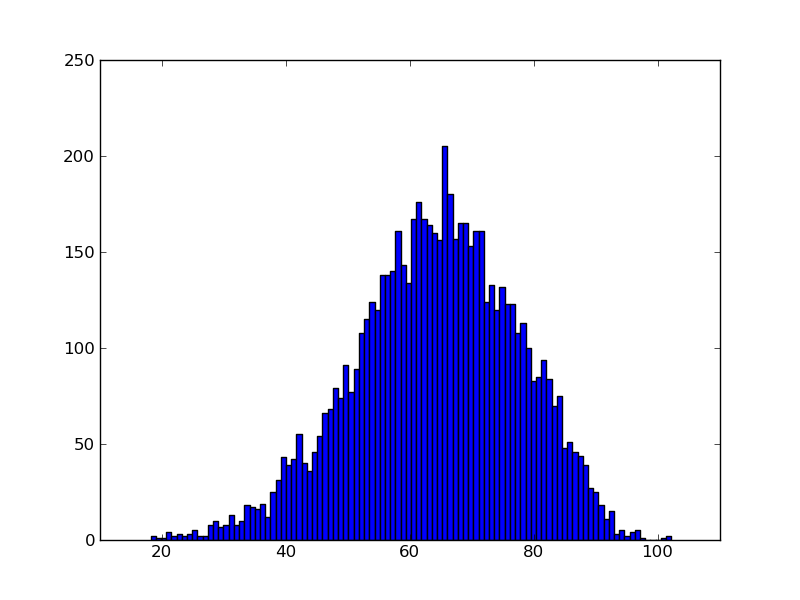
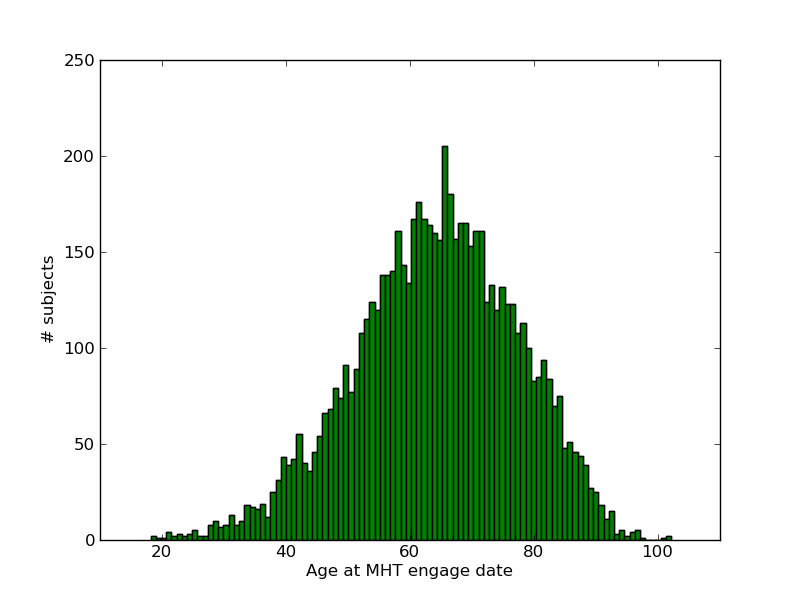
changed parse_Phenotype.py

Changed region(s): [[0.1875, 0.24, 0.8125, 0.9], [0.375, 0.93, 0.6562, 0.96], [0.0312, 0.42, 0.0625, 0.57]]

diff --git a/analysis_code/parse_Phenotype.py b/analysis_code/parse_Phenotype.py
@@ -12,9 +12,9 @@ def convert_dtdays_to_years(x):
     else:
         return x
 
-
 ## options
 input_folder = '../../data/new_data_20140416/Data_20140409/'
+output_dir = '../analysis_output/'
 
 ## Prepare data, read data
 filename = input_folder + 'Phenotype_04082014.csv'
@@ -35,3 +35,13 @@ df_Phenotype['AGE_DEATH'] = (df_Phenotype['DOD'] - df_Phenotype['DOB']).astype(d
 df_Phenotype['AGE_ENGAGE'] = df_Phenotype['AGE_ENGAGE'].apply(lambda x:  convert_dtdays_to_years(x) )
 df_Phenotype['AGE_DEATH'] = df_Phenotype['AGE_DEATH'].apply(lambda x:  convert_dtdays_to_years(x) )
 
+
+
+## plot ages
+fig = plt.figure(1)
+plt.hist(df_Phenotype['AGE_ENGAGE'], bins=100)
+plt.xlabel('Age at MHT engage date')
+plt.ylabel('# subjects')
+savestr = output_dir + 'plot_hist_MHT_age_ENGAGE_DATE.png'
+fig.savefig(savestr)
+plt.close()
